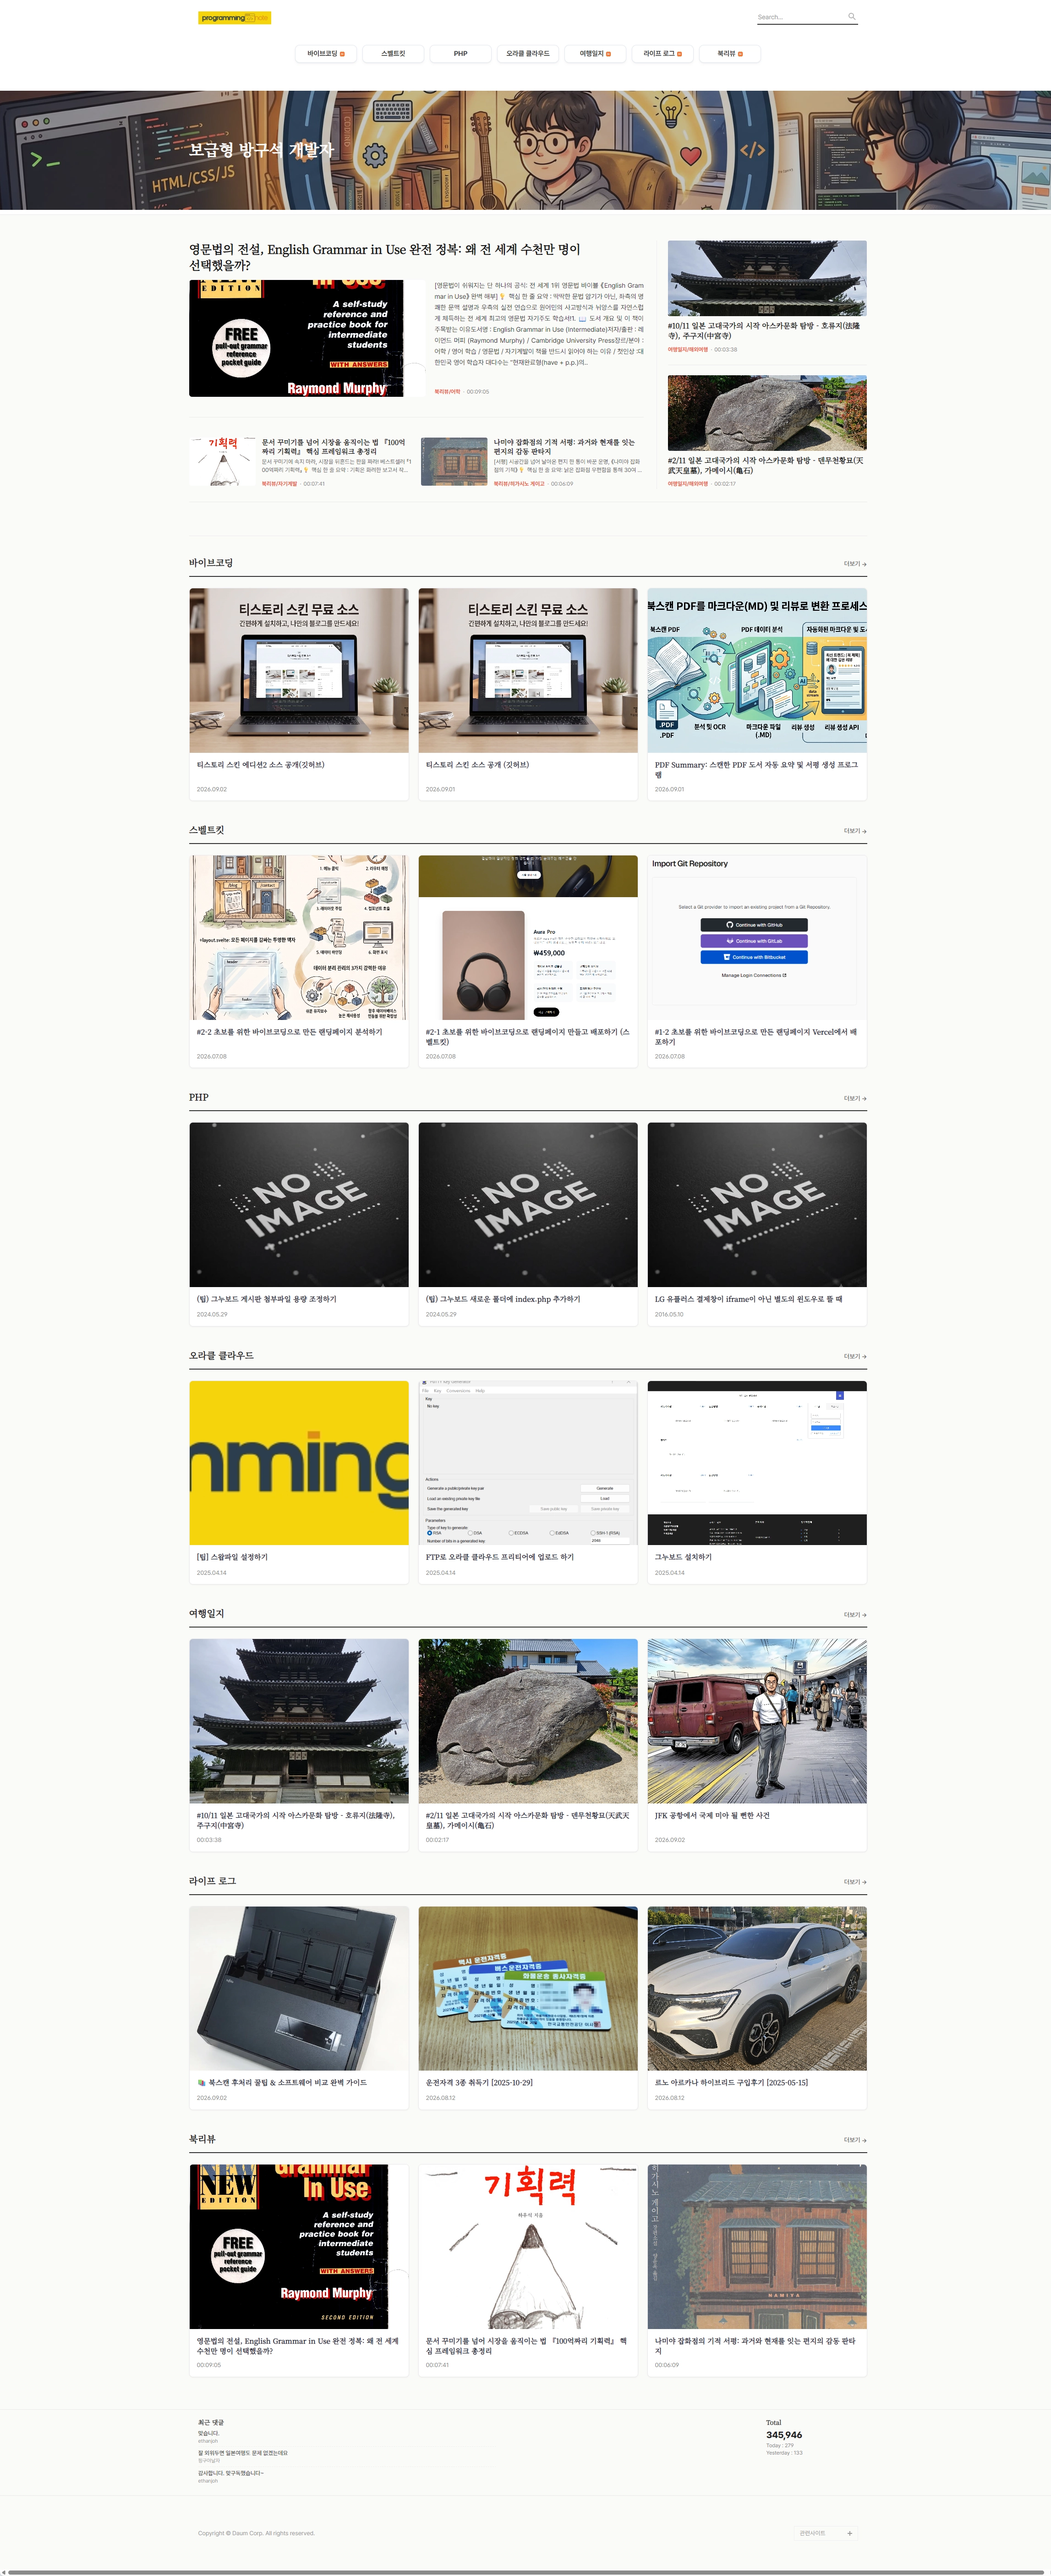
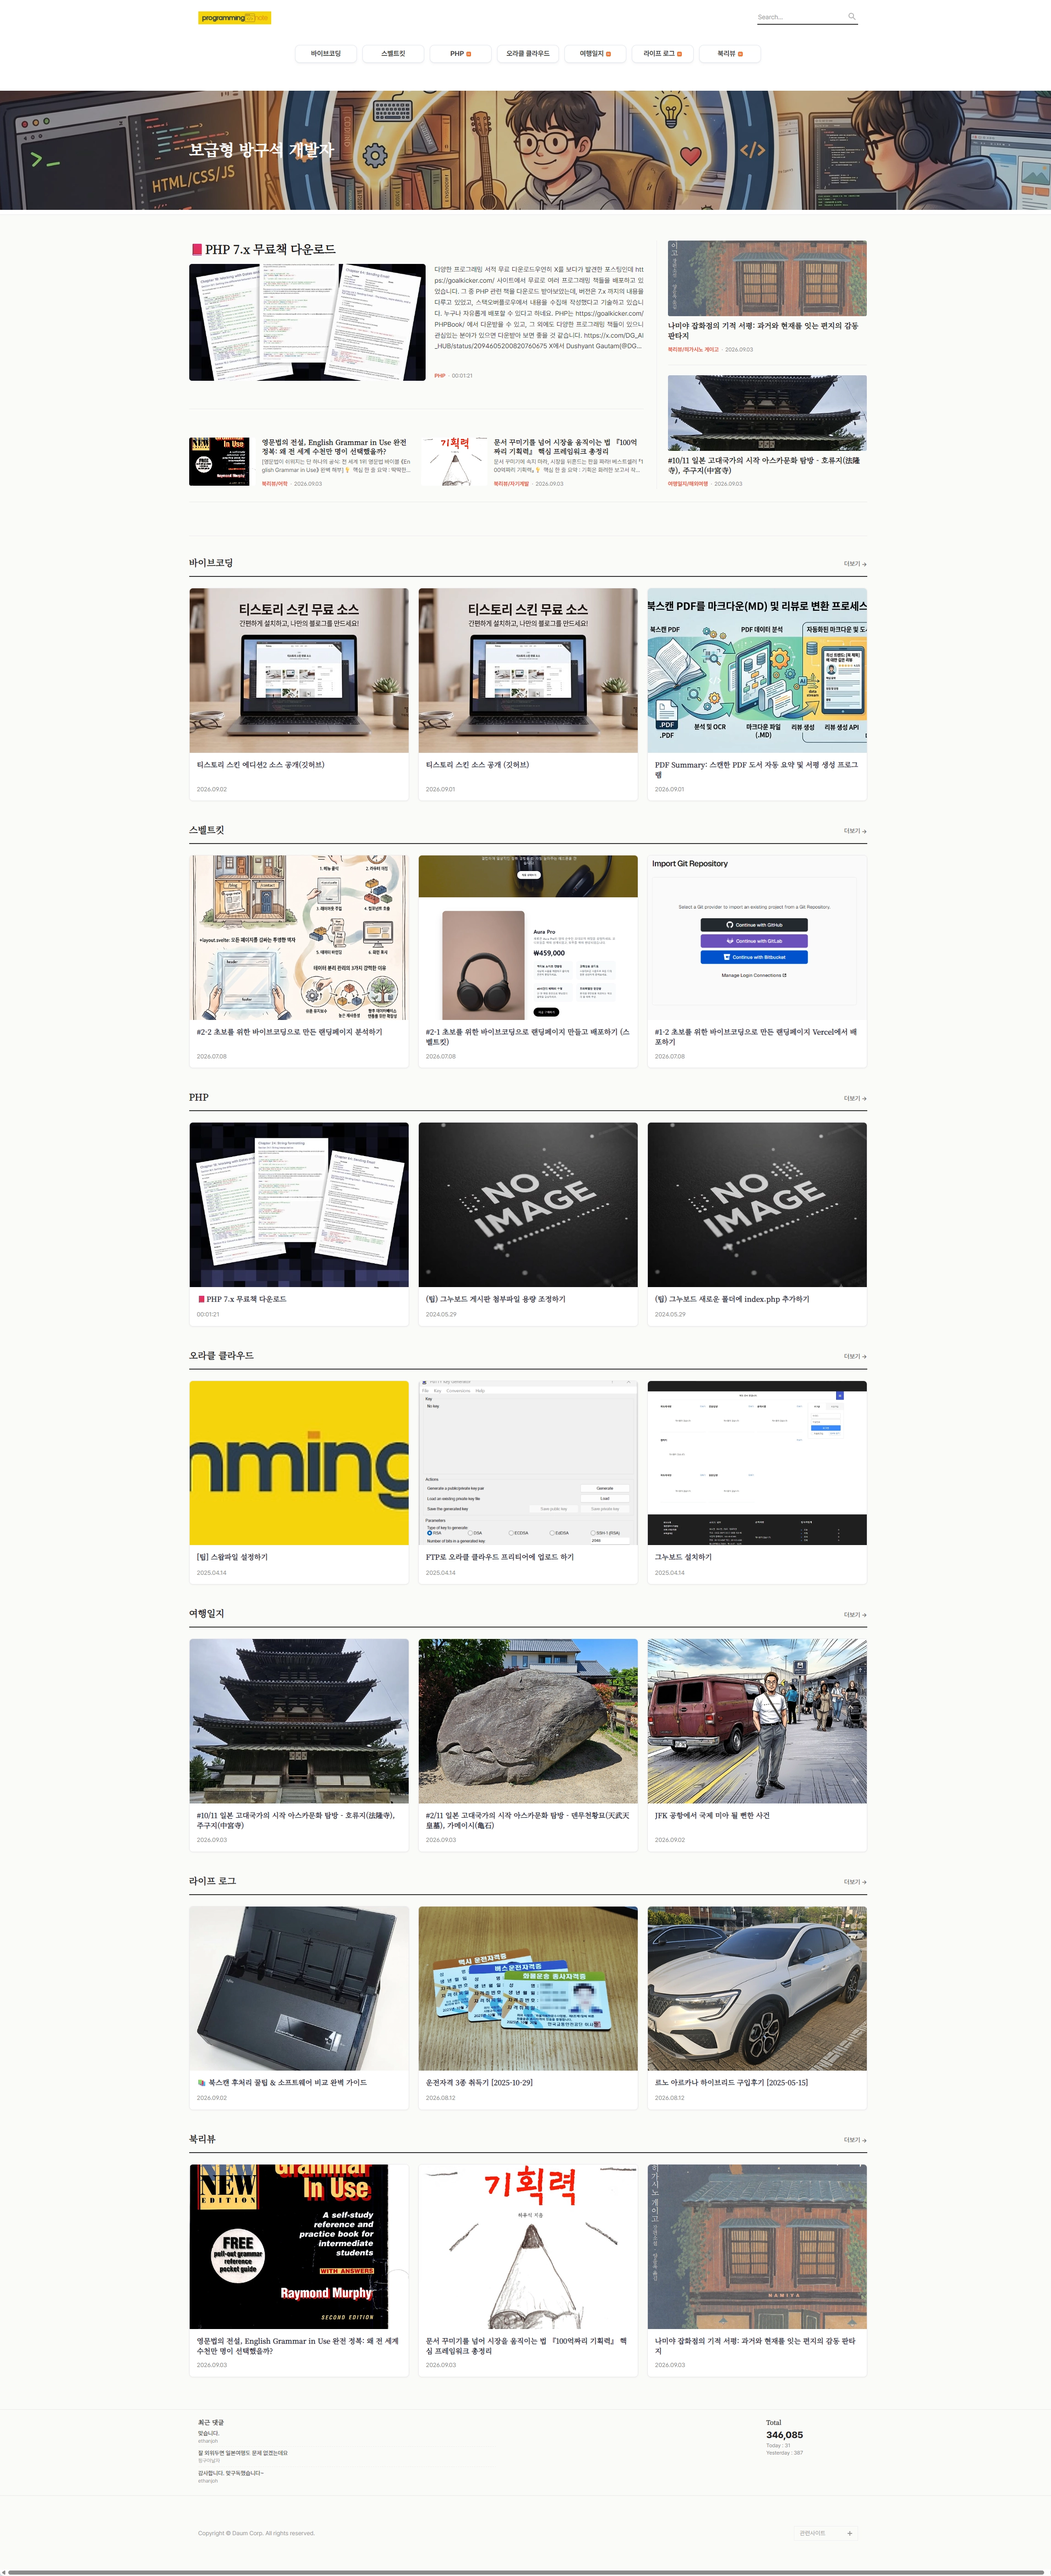
chore: 스킨 대표 스크린샷(screenshot.webp) 갱신 및 동기화

diff --git a/CHANGELOG.md b/CHANGELOG.md
@@ -2,6 +2,23 @@
 
 # CHANGELOG
 
+## [2026-09-04]
+
+### 변경 목적
+- 스킨 대표 미리보기 스크린샷 이미지(`screenshot.webp`) 최신 UI로 갱신 및 동기화
+
+### 주요 결정 사항
+- 타이포그래피 표준화 및 모바일 카드형 UI가 반영된 최신 스킨 상태를 나타내도록 `screenshot.webp` 업데이트
+
+### 수정한 파일
+- `screenshot.webp`: 스킨 대표 스크린샷 이미지 갱신
+- `CHANGELOG.md`: 작업 내역 기록
+
+### 테스트 결과
+- 갱신된 스크린샷 파일 무결성 및 정상 등록 확인
+
+---
+
 ## [2026-09-03]
 
 ### 변경 목적
